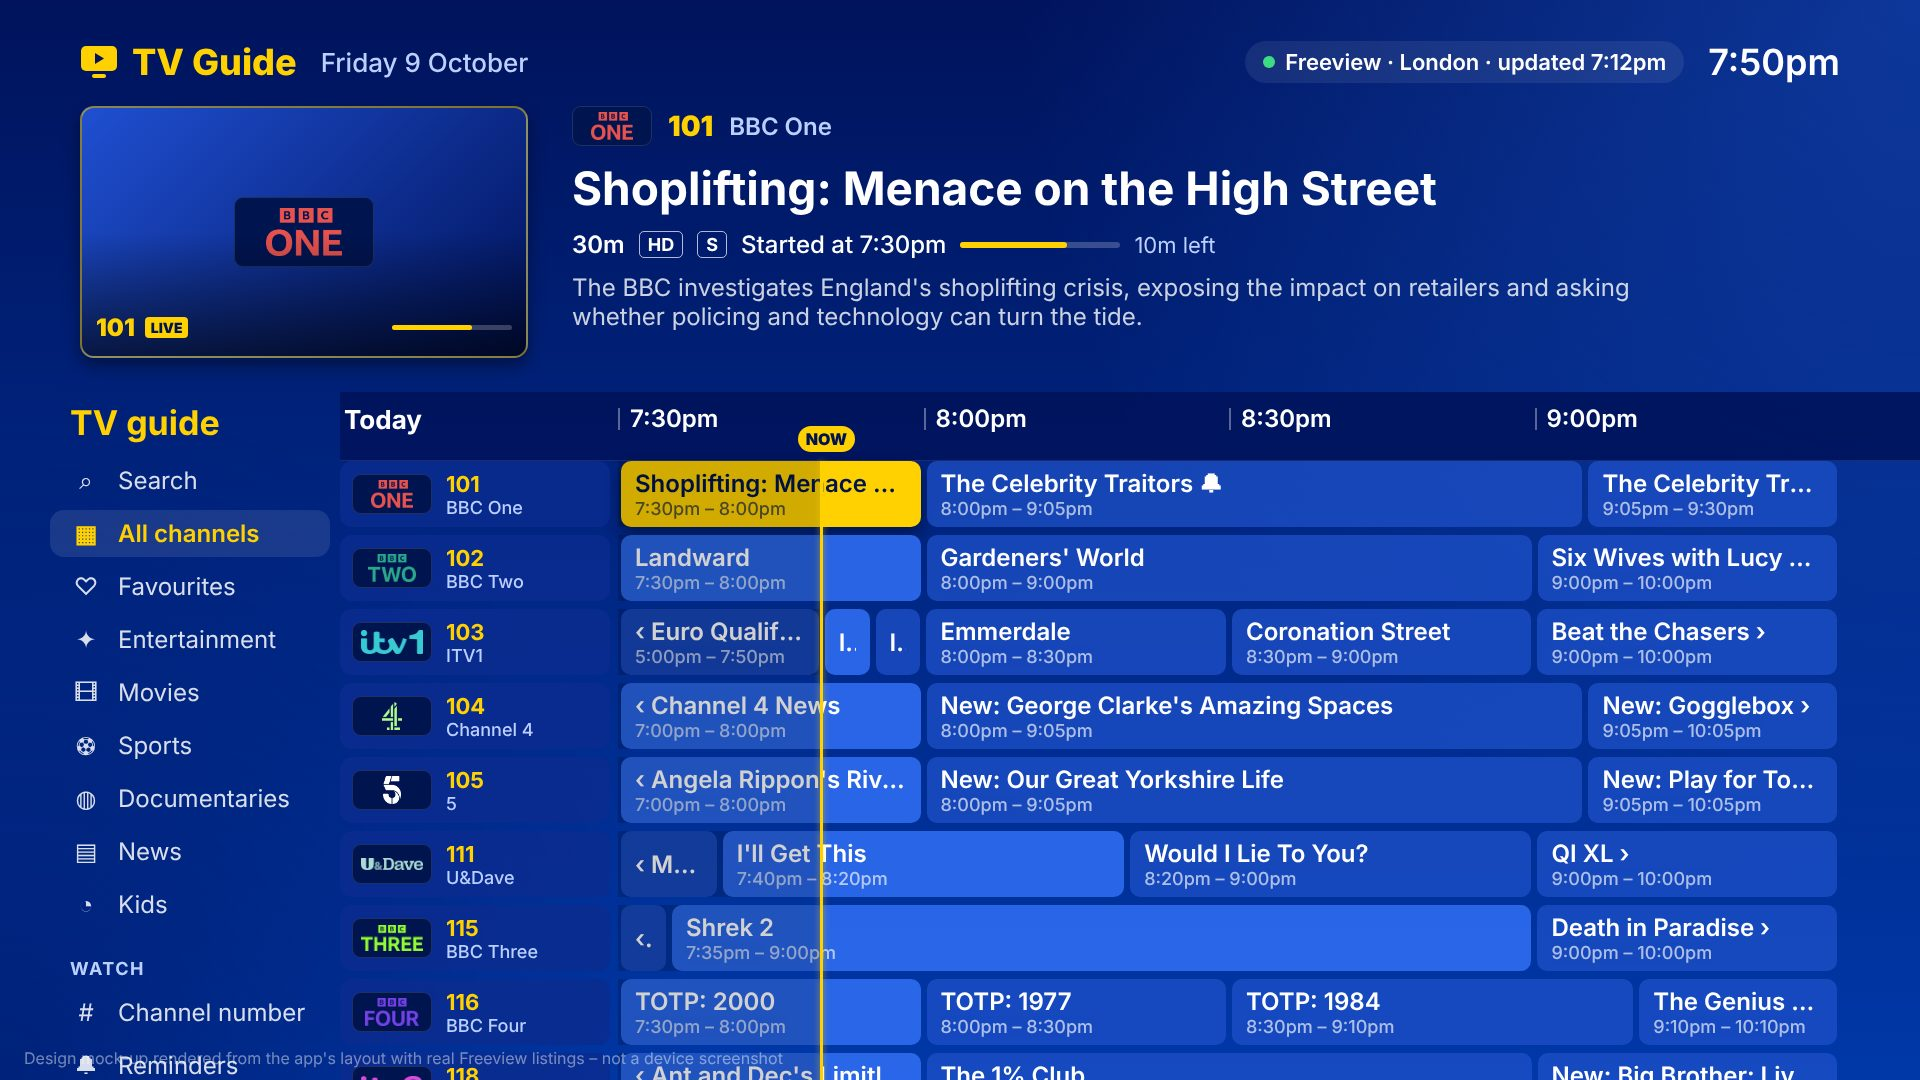
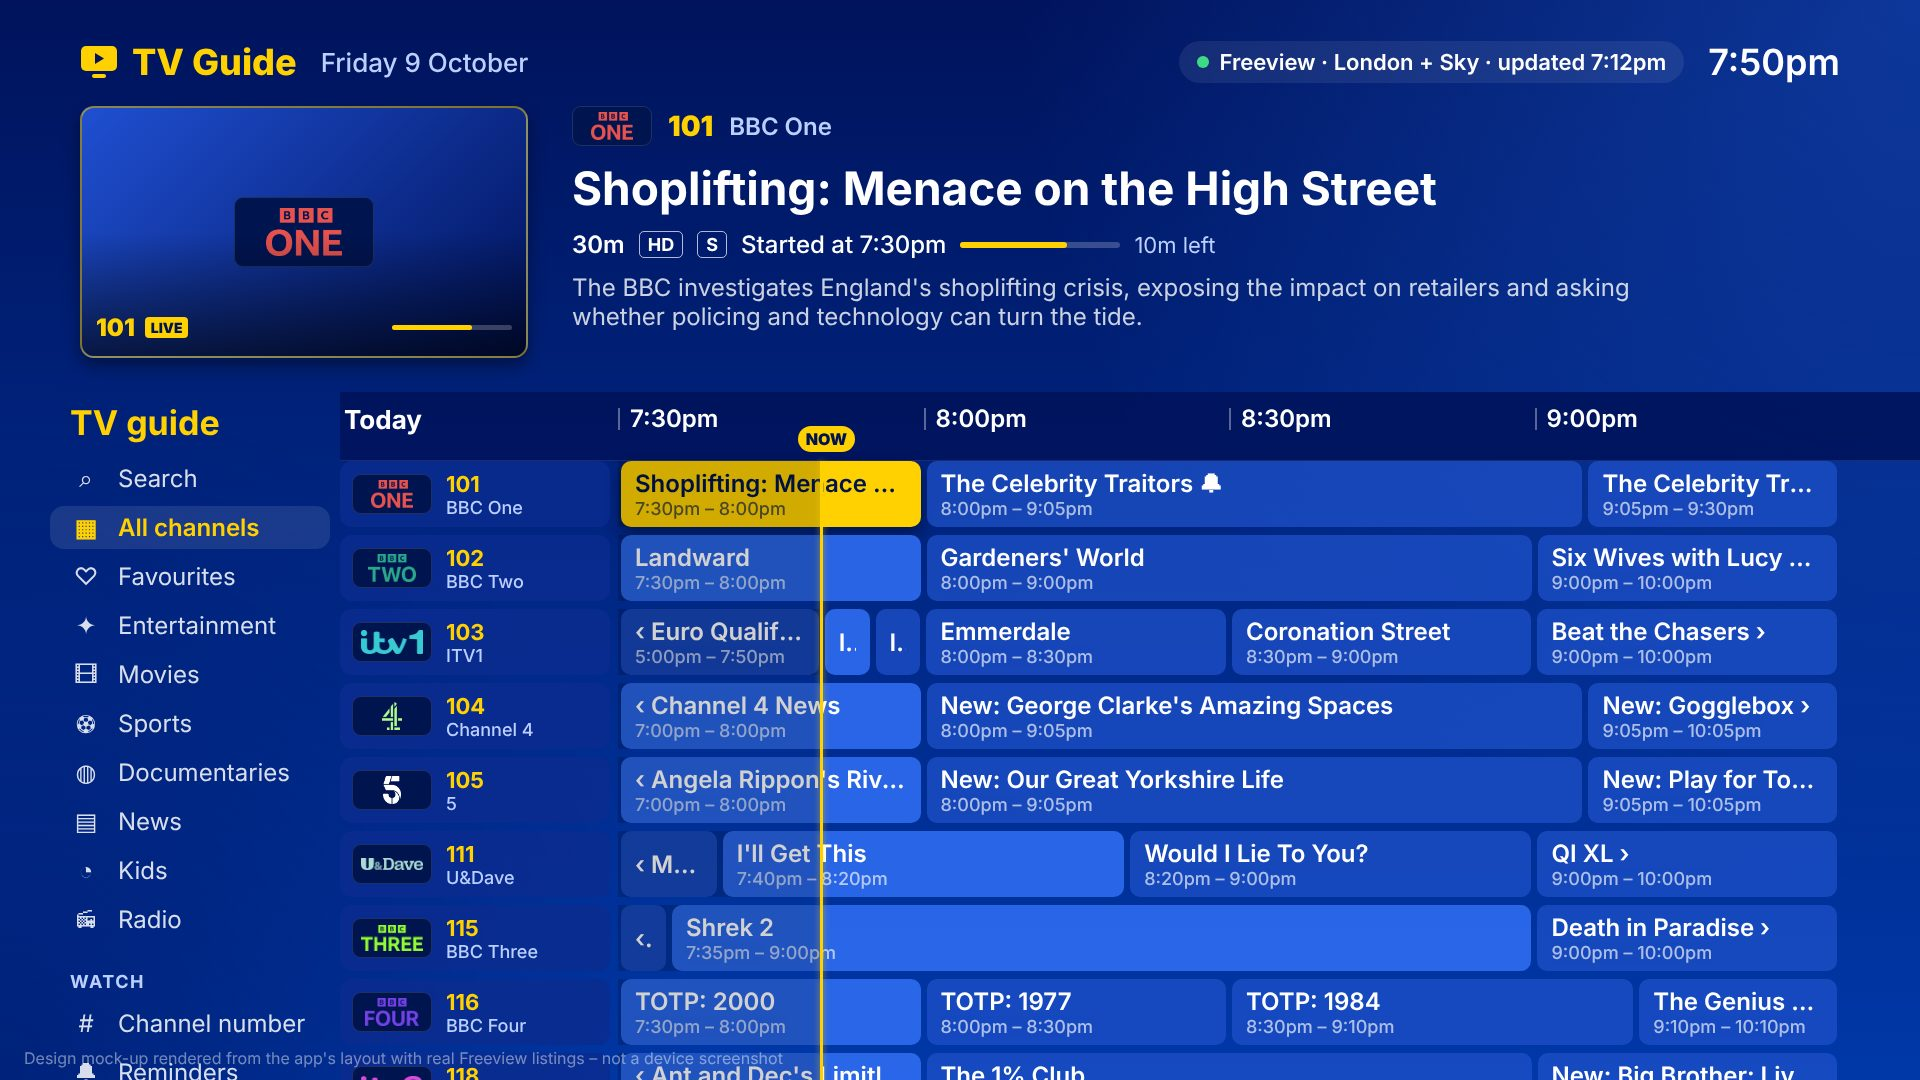
Update screenshots with radio, Live TV setup and current menu
Adds mock-ups of the Radio guide, the radio now-playing screen (live Rayo
show and song) and the Live TV setup screen, and refreshes the existing
ones with the current sidebar (Sports, Radio) and status line.

Claude-Session: https://claude.ai/code/session_01EDXQz8F41GDgqury2NHquS

Changed region(s): [[0.0312, 0.4278, 0.1562, 0.8556], [0.0312, 0.8861, 0.1562, 1.0], [0.625, 0.0306, 0.7812, 0.0917]]

diff --git a/README.md b/README.md
@@ -7,6 +7,8 @@ A classic Sky style TV guide for **Apple TV (tvOS 17+)**, in Sky blue and yellow
 | Sky Sports (Sky channels on) | Search with dictation | Reminder |
 | --- | --- | --- |
 | ![Sports](docs/screenshots/sports.jpg) | ![Search](docs/screenshots/search.jpg) | ![Reminder](docs/screenshots/reminder.jpg) |
+| **Radio guide (0101…)** | **Radio now playing** | **Live TV setup** |
+| ![Radio](docs/screenshots/radio.jpg) | ![Radio now playing](docs/screenshots/radioplay.jpg) | ![Live TV](docs/screenshots/livetv.jpg) |
 | **Live TV banner** | **Programme info** | **On now tiles** |
 | ![Player](docs/screenshots/player.jpg) | ![Info](docs/screenshots/info.jpg) | ![Tiles](docs/screenshots/guide.jpg) |
 
